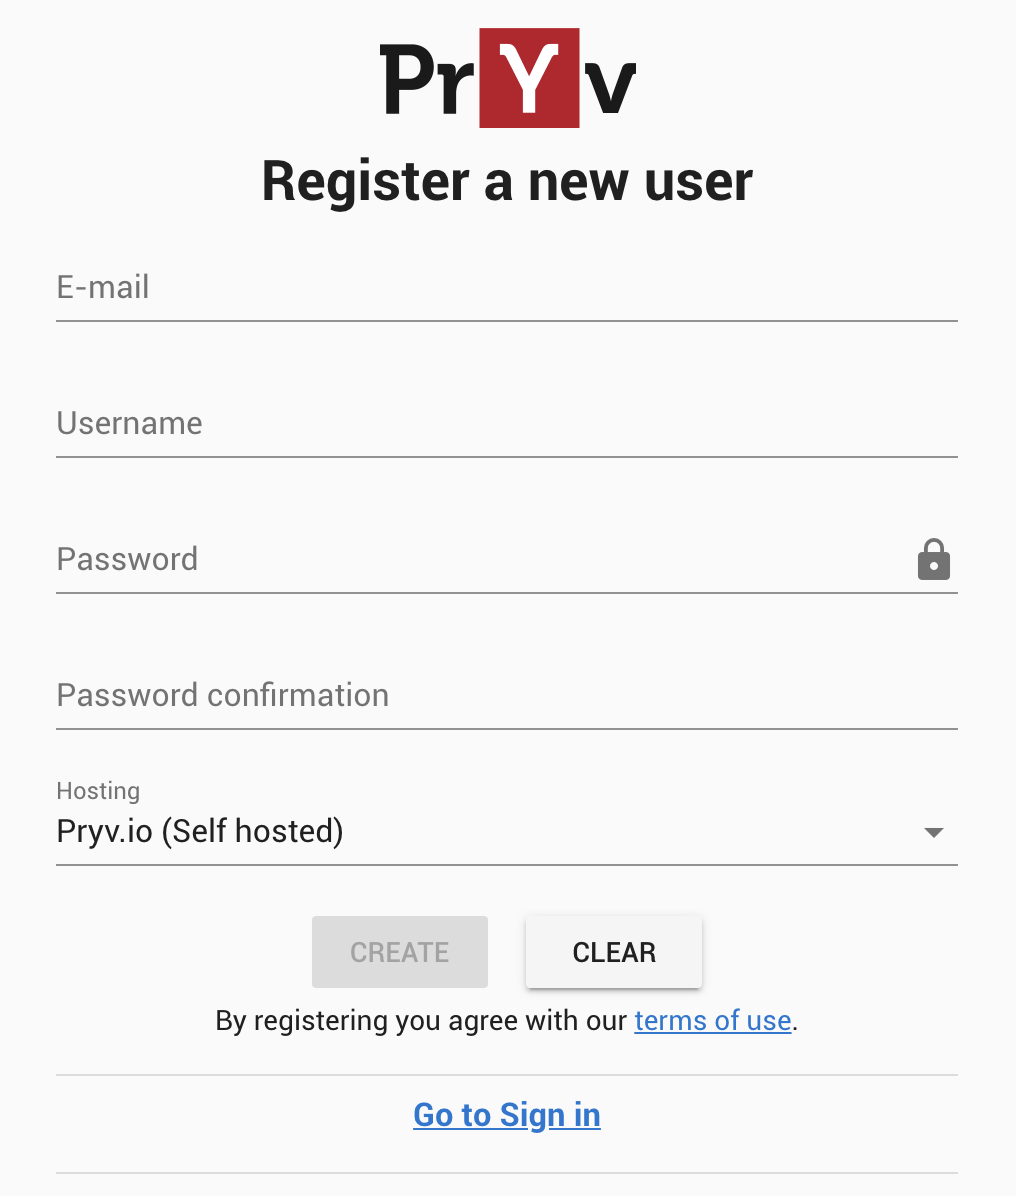
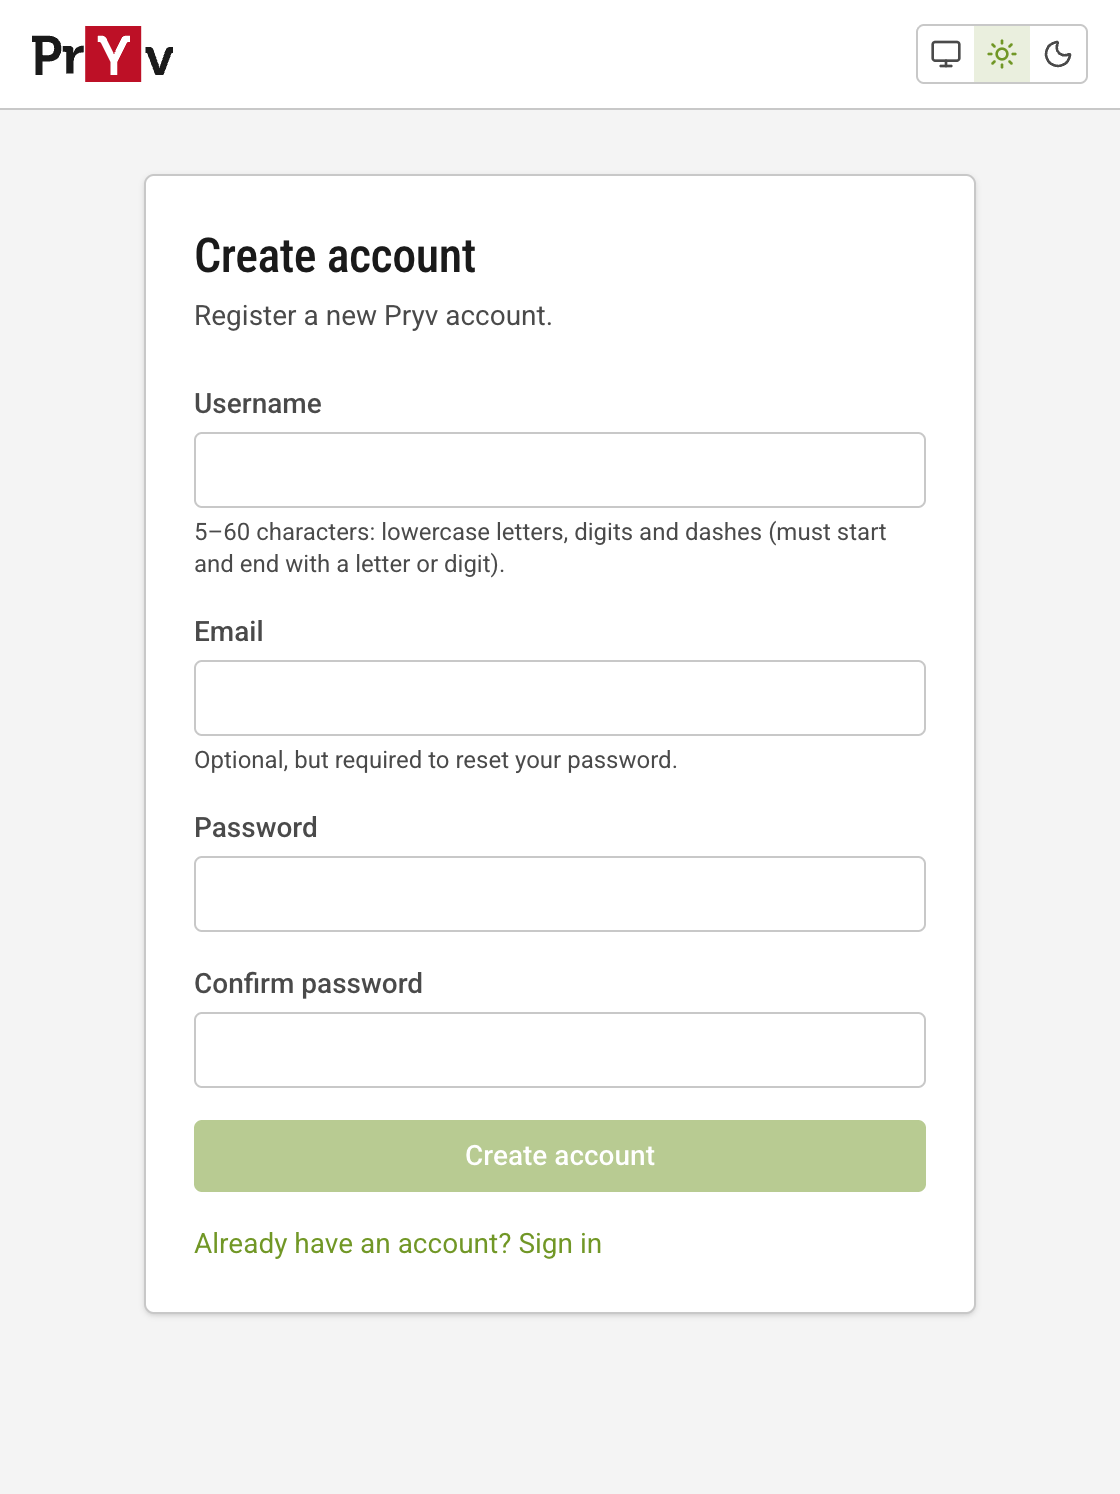
docs: getting-started registration screenshot and button label from the current account app

diff --git a/src/content/docs/getting-started.md b/src/content/docs/getting-started.md
@@ -86,7 +86,7 @@ Once your platform is up and running, you can create a user account and launch t
 <img src="/assets/images/getting-started/register-open.png" alt="register-open" style="zoom:33%;" />
 </p>
 <br />
-3. Fill in the form and click on the '**Create**' button.
+3. Fill in the form and click on the '**Create account**' button.
 
 
 ## Obtain an Access Token
